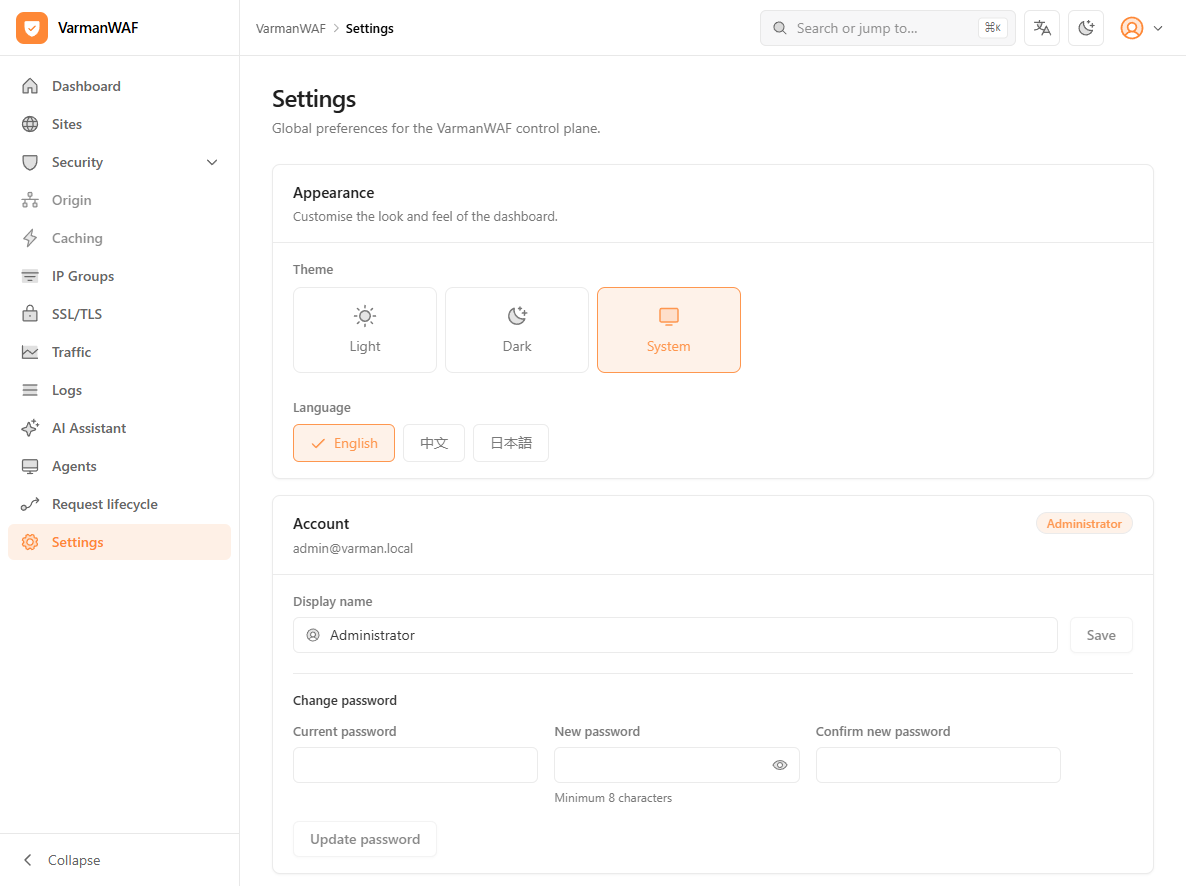
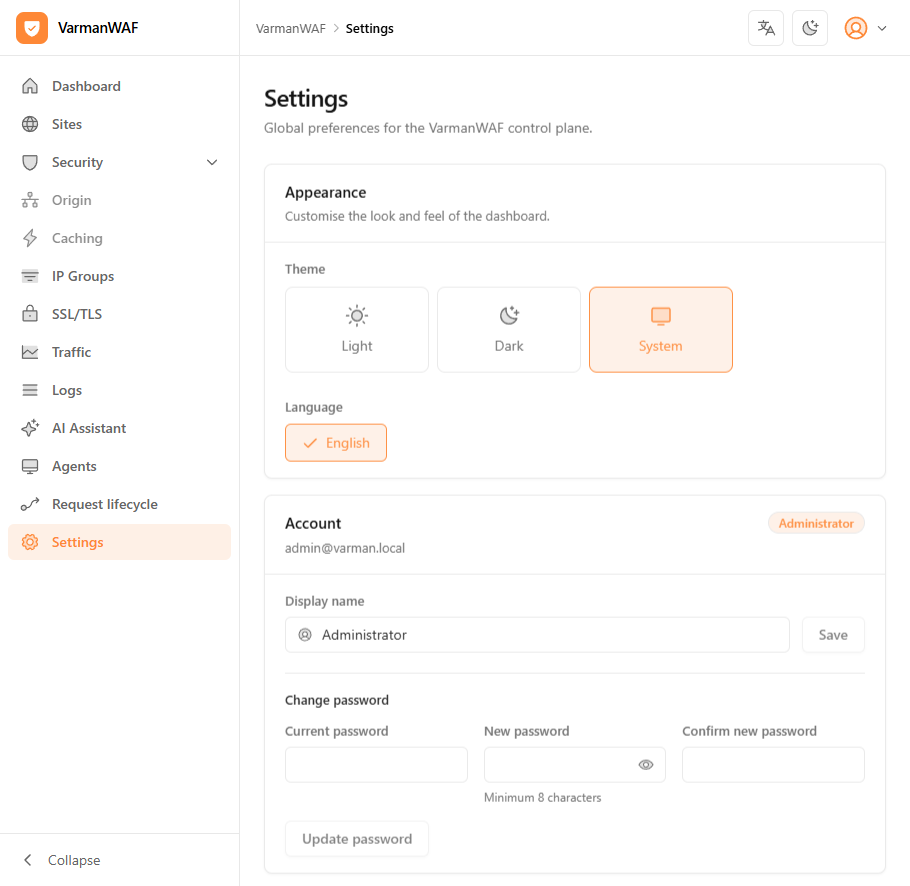
docs: refresh settings screenshot for the English-only console; note asset build ordering

diff --git a/README.md b/README.md
@@ -129,9 +129,11 @@ cargo fmt --all -- --check
   the Varman pipeline beside the enforcing engine and record how the two
   verdicts compare (agree / pipeline stricter / pipeline weaker). Comparisons
   are logged and counted; enforcement never changes.
-- **Dashboard assets:** `web/dist` is a build artifact embedded into the
-  binary at compile time. Run `npm run build` inside `web/` after any UI
-  change, then rebuild the binary.
+- **Dashboard assets:** `web/dist` is embedded into the binary at compile
+  time. Run `npm run build` inside `web/` **before** rebuilding the Rust
+  binary — never in parallel — or the binary embeds the previous bundle.
+  Verify after deploying: the hash in the served `index.html` must match the
+  newest `web/dist/assets/index-*.js`.
 - **Adding a site in all-in-one mode:** create the site first, then restart
   the container once so the embedded agent re-registers and binds to it.
 
